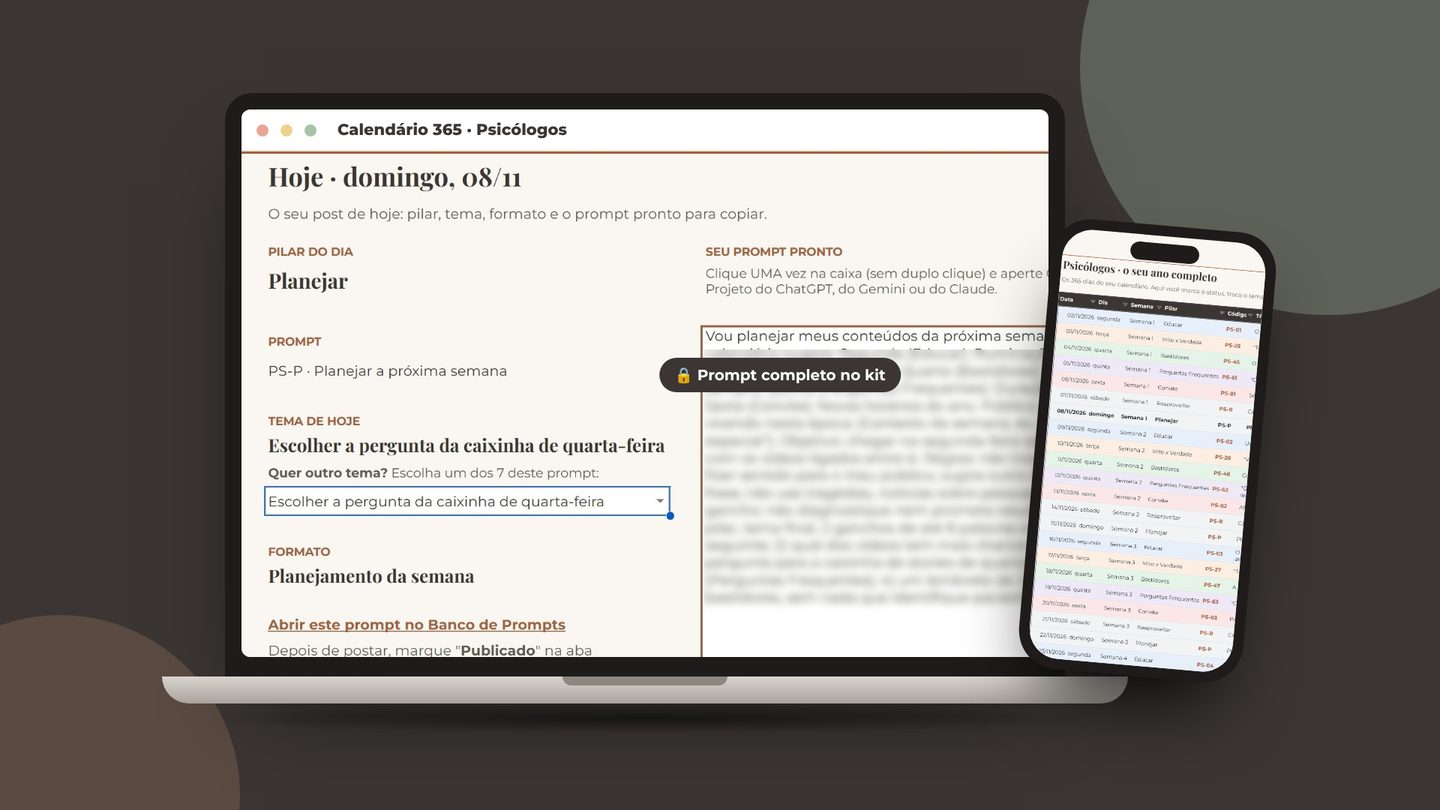
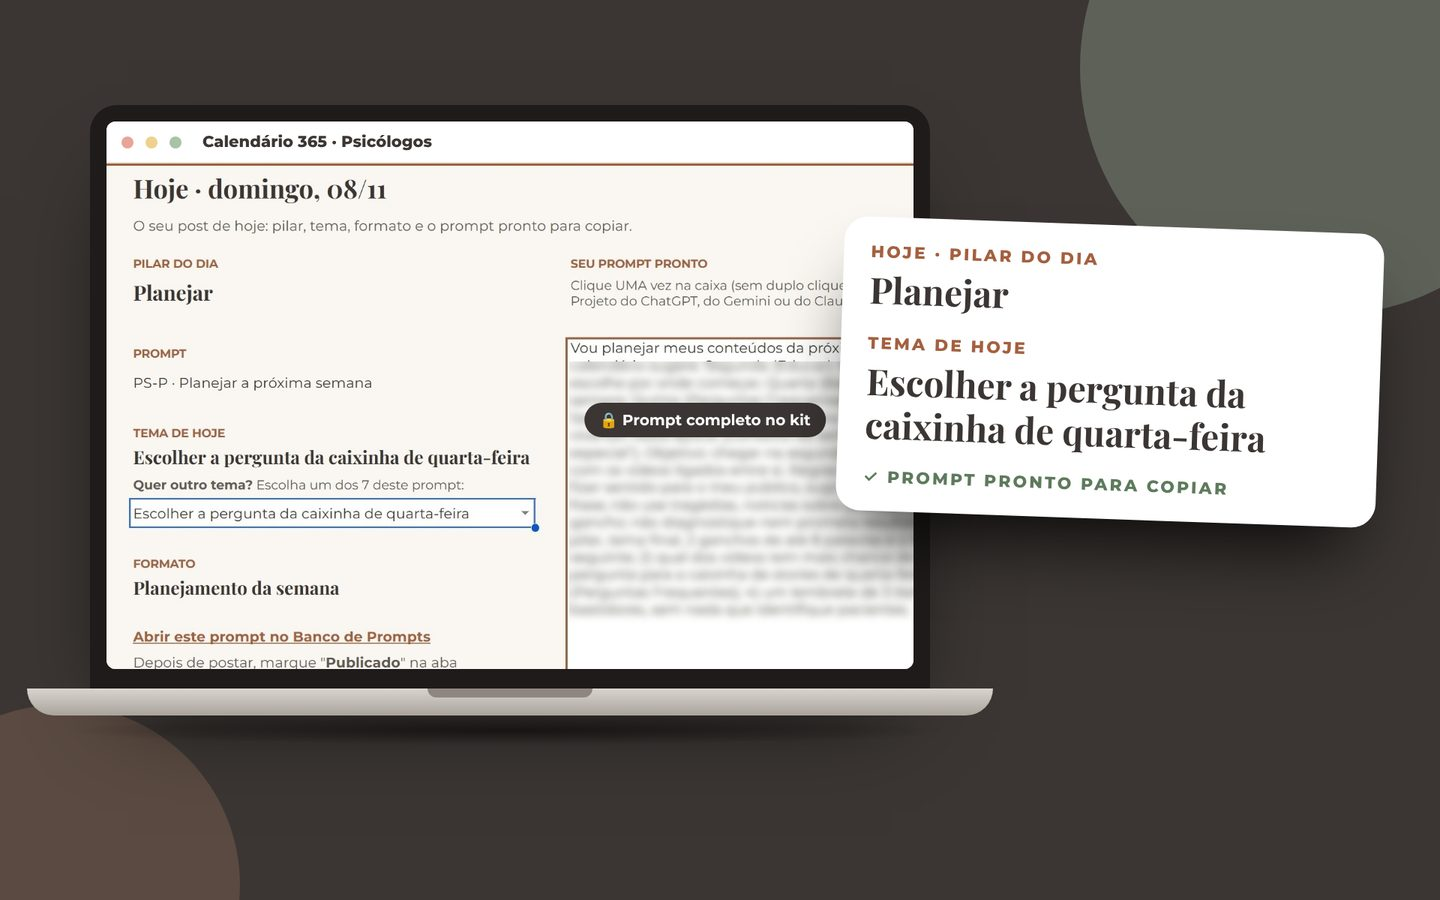
Itens do kit: cartões ampliados e legíveis, versão própria para celular, texto antes da imagem
Claude-Session: https://claude.ai/code/session_019gApqEvePQwvVzz1sAvbWL

diff --git a/index.html b/index.html
@@ -1196,7 +1196,7 @@ html,body{overflow-x:clip}
 .itens{display:grid;gap:56px;margin-top:22px}
 .it{display:grid;grid-template-columns:1.25fr 1fr;gap:44px;align-items:center}
 .it:nth-child(even) .it-img{order:2}
-.it-img img{display:block;width:100%;height:auto;border-radius:20px;box-shadow:0 24px 50px -30px rgba(59,54,51,.55)}
+.it-img picture{display:block}.it-img img{display:block;width:100%;height:auto;border-radius:20px;box-shadow:0 24px 50px -30px rgba(59,54,51,.55)}
 .it-tag{display:inline-block;font-size:12px;font-weight:800;letter-spacing:.14em;text-transform:uppercase;color:#fff;background:var(--terra-esc);padding:5px 12px;border-radius:999px}
 .it-tag::before{content:"[ "}.it-tag::after{content:" ]"}
 .it-op .it-tag{background:var(--salvia)}
@@ -1204,7 +1204,7 @@ html,body{overflow-x:clip}
 .it-txt p{margin-top:10px;font-size:16.5px;line-height:1.6;color:var(--texto2)}
 .guias .it-tag{margin-bottom:4px}
 .it-cta{text-align:center;margin-top:10px}
-@media (max-width:820px){.itens{gap:40px}.it{grid-template-columns:1fr;gap:16px}.it:nth-child(even) .it-img{order:0}.it-txt{text-align:center}.it-txt p{font-size:15.5px}}
+@media (max-width:820px){.itens{gap:44px}.it{grid-template-columns:1fr;gap:16px}.it .it-img,.it:nth-child(even) .it-img{order:2}.it-txt{text-align:center}.it-txt p{font-size:15.5px}}
 </style>
 <!-- Exclui os acessos do dono: ?nao-contar=1 desliga, ?contar=1 religa (vale por navegador) -->
 <script>
@@ -1431,10 +1431,10 @@ html,body{overflow-x:clip}
     <h2 class="h2">O que você vai encontrar no kit</h2>
     <p class="lead">Tudo abre direto nos apps gratuitos do Google e em PDF, sem instalar nada. O ideal é usar no computador, e você também consulta pelo celular.</p>
     <div class="itens">
-      <article class="it"><div class="it-img"><img src="img/item-calendario.jpg" alt="Calendário 365 automático" loading="lazy" width="1440" height="810"></div><div class="it-txt"><span class="it-tag">Calendário</span><h3>Calendário 365 automático</h3><p>Você coloca a data de início e ele organiza o seu ano. Todo dia, a aba Hoje mostra o pilar, o tema e o prompt pronto para copiar. Mais de 700 temas e 8 datas especiais.</p></div></article>
-      <article class="it"><div class="it-img"><img src="img/item-prompts.jpg" alt="Banco de 102 prompts para psicologia" loading="lazy" width="1440" height="810"></div><div class="it-txt"><span class="it-tag">Prompts</span><h3>Banco de 102 prompts para psicologia</h3><p>Um pilar para cada dia da semana, de Educar a Convite, com 7 temas em cada prompt. Feitos considerando as orientações do CFP.</p></div></article>
-      <article class="it"><div class="it-img"><img src="img/item-ficha.jpg" alt="Ficha do Negócio + Prompt de Contexto" loading="lazy" width="1440" height="810"></div><div class="it-txt"><span class="it-tag">Ficha</span><h3>Ficha do Negócio + Prompt de Contexto</h3><p>17 perguntas curtas, respondidas uma vez só. A sua IA passa a escrever com a sua abordagem, o seu público e o seu tom. Com guia para ChatGPT, Gemini e Claude.</p></div></article>
-      <article class="it it-op"><div class="it-img"><img src="img/item-pack.jpg" alt="Pack 20 Modelos Canva" loading="lazy" width="1440" height="810"></div><div class="it-txt"><span class="it-tag">Opcional · R$ 27</span><h3>Pack 20 Modelos Canva</h3><p>20 modelos de vídeo com texto centralizado: troque o texto e baixe em MP4. Funciona com o Canva gratuito. Você adiciona no pagamento, se quiser.</p></div></article>
+      <article class="it"><div class="it-img"><picture><source media="(max-width:820px)" srcset="img/item-calendario-m.jpg" width="900" height="960"><img src="img/item-calendario.jpg" alt="Calendário 365 automático" loading="lazy" width="1440" height="900"></picture></div><div class="it-txt"><span class="it-tag">Calendário</span><h3>Calendário 365 automático</h3><p>Você coloca a data de início e ele organiza o seu ano. Todo dia, a aba Hoje mostra o pilar, o tema e o prompt pronto para copiar. Mais de 700 temas e 8 datas especiais.</p></div></article>
+      <article class="it"><div class="it-img"><picture><source media="(max-width:820px)" srcset="img/item-prompts-m.jpg" width="900" height="960"><img src="img/item-prompts.jpg" alt="Banco de 102 prompts para psicologia" loading="lazy" width="1440" height="900"></picture></div><div class="it-txt"><span class="it-tag">Prompts</span><h3>Banco de 102 prompts para psicologia</h3><p>Um pilar para cada dia da semana, de Educar a Convite, com 7 temas em cada prompt. Feitos considerando as orientações do CFP.</p></div></article>
+      <article class="it"><div class="it-img"><picture><source media="(max-width:820px)" srcset="img/item-ficha-m.jpg" width="900" height="960"><img src="img/item-ficha.jpg" alt="Ficha do Negócio + Prompt de Contexto" loading="lazy" width="1440" height="900"></picture></div><div class="it-txt"><span class="it-tag">Ficha</span><h3>Ficha do Negócio + Prompt de Contexto</h3><p>17 perguntas curtas, respondidas uma vez só. A sua IA passa a escrever com a sua abordagem, o seu público e o seu tom. Com guia para ChatGPT, Gemini e Claude.</p></div></article>
+      <article class="it it-op"><div class="it-img"><img src="img/item-pack.jpg" alt="Pack 20 Modelos Canva" loading="lazy" width="1440" height="900"></div><div class="it-txt"><span class="it-tag">Opcional · R$ 27</span><h3>Pack 20 Modelos Canva</h3><p>20 modelos de vídeo com texto centralizado: troque o texto e baixe em MP4. Funciona com o Canva gratuito. Você adiciona no pagamento, se quiser.</p></div></article>
     </div>
     <div class="guias">
       <div class="guias-txt">
